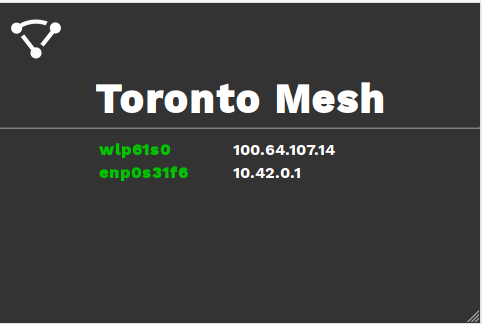
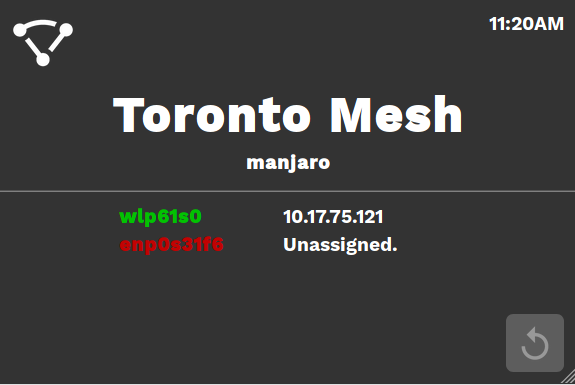
Updated README and screenshot

Changed region(s): [[0.0, 0.0, 1.0, 1.0], [0.4668, 0.6173, 0.6846, 0.679], [0.1867, 0.6173, 0.4046, 0.679]]

diff --git a/README.md b/README.md
@@ -4,14 +4,10 @@ This is a small Python (Flask) web app designed to display the status of a node 
 ![screenshot](screenshot.png)
 
 ## To-Do:
-- [x] Setup a working Flask app
-- [x] Detect the name, IP and up/down status of all physical network interfaces
 - [ ] Add third column for IPv6 addresses
 - [ ] Move to Tomesh GitHub organization
 - [ ] Turn script into systemd service
 - [ ] Make script a module for cjdns-prototype-pi
-- [ ] Detect the hostname (Usually tomesh-xxxx in the case of a tomesh node)
-- [ ] Display the time in top right corner?
 - [ ] Perform the same detections as the [status](https://github.com/tomeshnet/prototype-cjdns-pi/blob/master/scripts/status) bash script, and display the status of the following:
   - [ ] Mesh Point Interface
   - [ ] Yggdrasil
@@ -22,6 +18,11 @@ This is a small Python (Flask) web app designed to display the status of a node 
   - [ ] Node Explorer
   - [ ] Prometheus
   - [ ] Grafana
+- [x] Setup a working Flask app
+- [x] Detect the name, IP and up/down status of all physical network interfaces
+- [x] Check for status / IP changes using async
+- [x] Display the time in top right corner
+- [x] Detect the hostname (Usually tomesh-xxxx in the case of a tomesh node)
 
 ## Setup
 - Install Raspbian Lite on your Pi. Ensure SSH is enabled if you need it.
